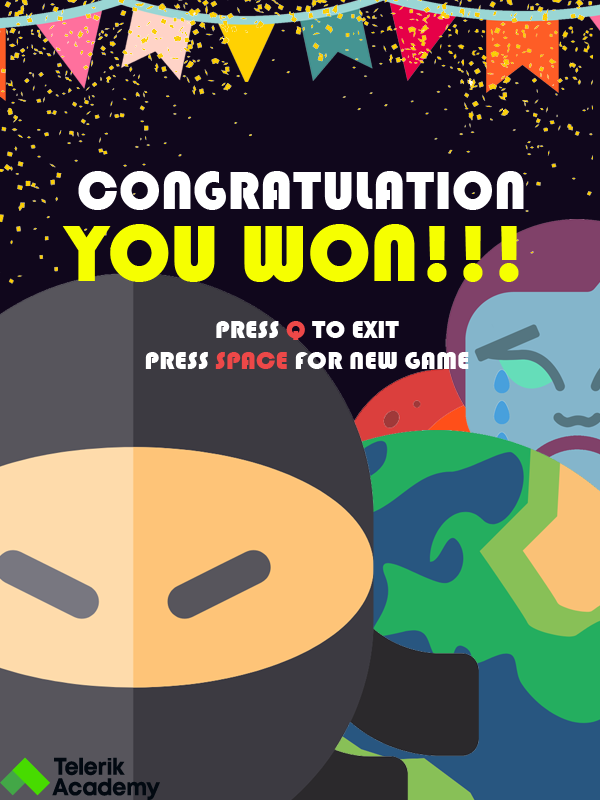
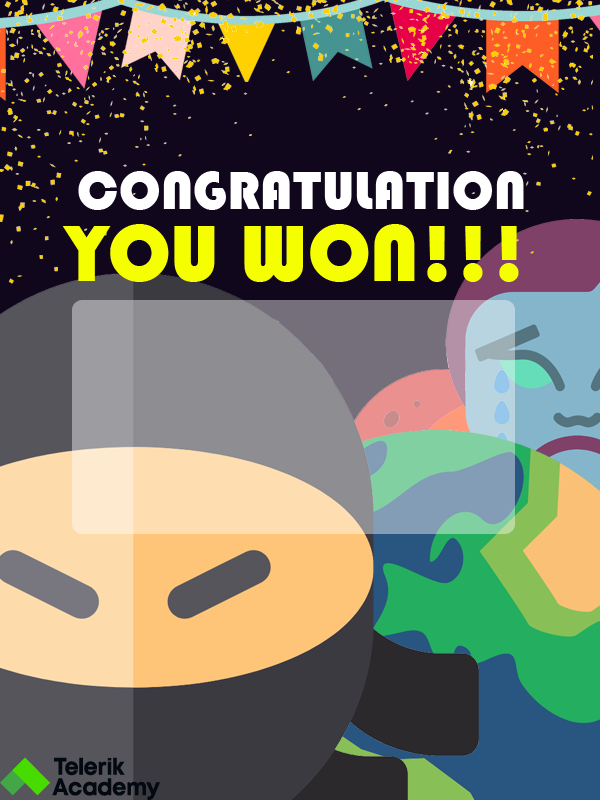
added win state menu

Changed region(s): [[0.12, 0.375, 0.87, 0.6875]]

diff --git a/src/telerik/game_states/WinState.java b/src/telerik/game_states/WinState.java
@@ -1,5 +1,8 @@
 package telerik.game_states;
 
+import telerik.Constants;
+import telerik.Player;
+import telerik.enumerators.GameStateButtons;
 import telerik.system.Position;
 import telerik.enumerators.GameStateType;
 import telerik.system.Background;
@@ -10,12 +13,28 @@ import java.awt.event.KeyEvent;
 public class WinState extends GameState {
     private Background background;
 
+    private int currentChoice = 0;
+
+    private Color fontColor;
+    private Font buttonsFont;
+
+    private int fontSize;
     private int currentStateIndex;
+
+    private GameStateButtons[] buttons = {
+            GameStateButtons.NEW_GAME,
+            GameStateButtons.EXIT
+    };
 
     public WinState(GameStateManager gsm) {
         this.gsm = gsm;
 
+        fontSize = 50;
+
         background = new Background("../res/win_state.png", new Position(0, 0));
+
+        fontColor = Color.WHITE;
+        buttonsFont = new Font("Arial", Font.BOLD, fontSize);
     }
 
     @Override
@@ -25,6 +44,38 @@ public class WinState extends GameState {
     @Override
     public void render(Graphics2D g) {
         background.render(g);
+
+        g.setColor(fontColor);
+        g.setFont(buttonsFont);
+
+        for (int i = 0; i < buttons.length; i++) {
+
+            if (i == currentChoice) {
+                g.setColor(new Color(255, 253, 237));
+            } else {
+                g.setColor(new Color(193, 9, 21));
+            }
+
+            switch (buttons[i]) {
+                case NEW_GAME:
+                    g.drawString("New Game", Constants.WIDTH / 2 - 150, (Constants.HEIGHT / 2) + i * fontSize );
+                    break;
+                case EXIT:
+                    g.drawString("Exit", Constants.WIDTH / 2 - 150, (Constants.HEIGHT / 2) + i * fontSize);
+                    break;
+            }
+        }
+    }
+
+    private void select() {
+        if (buttons[currentChoice] == GameStateButtons.NEW_GAME) {
+            gsm.resetGame();
+            currentStateIndex = GameStateType.PLAYSTATE.ordinal();
+            gsm.setState(currentStateIndex);
+        } else if (buttons[currentChoice] == GameStateButtons.EXIT) {
+
+            System.exit(0);
+        }
     }
 
     @Override
@@ -34,14 +85,35 @@ public class WinState extends GameState {
 
     @Override
     public void keyReleased(int k) {
-        if (k == KeyEvent.VK_Q) {
+
+        if (k == KeyEvent.VK_ESCAPE) {
             System.exit(0);
         }
 
-        if (k == KeyEvent.VK_ENTER) {
+        if (k == KeyEvent.VK_N) {
             currentStateIndex = GameStateType.PLAYSTATE.ordinal();
             gsm.setState(currentStateIndex);
             gsm.resetGame();
+        }
+
+        if (k == KeyEvent.VK_ENTER) {
+            select();
+        }
+
+        if (k == KeyEvent.VK_UP) {
+            currentChoice--;
+
+            if (currentChoice == -1) {
+                currentChoice = buttons.length - 1;
+            }
+        }
+
+        if (k == KeyEvent.VK_DOWN) {
+            currentChoice++;
+
+            if (currentChoice == buttons.length) {
+                currentChoice = 0;
+            }
         }
     }
 }

diff --git a/src/telerik/Constants.java b/src/telerik/Constants.java
@@ -26,9 +26,9 @@ public class Constants {
 
 
     public static final long FPS = 60;
-    public static final double UPDATE_TIME = 1000000000 / FPS;
-
-    public static final long TARGET_TIME = 1000 / FPS;
+//    public static final double UPDATE_TIME = 1000000000 / FPS;
+//
+//    public static final long TARGET_TIME = 1000 / FPS;
 
     public static final int FRIENDLY_BULLET_1_POWER = 20;
     public static final int FRIENDLY_BULLET_2_POWER = 40;
@@ -41,17 +41,17 @@ public class Constants {
     public static final int ENEMY_BULLET_2_POWER = 20;
     public static final int COMET_POWER = 50;
 
-    public static final int ALIEN_KILL_POINTS = 500;
-    public static final int SHIP_1_KILL_POINTS = 1000;
-    public static final int SHIP_2_KILL_POINTS = 2000;
-    public static final int BULLET_1_KILL_POINTS = 50;
-    public static final int BULLET_2_KILL_POINTS = 100;
-    public static final int COMET_KILL_POINTS = 100;
+//    public static final int ALIEN_KILL_POINTS = 500;
+//    public static final int SHIP_1_KILL_POINTS = 1000;
+//    public static final int SHIP_2_KILL_POINTS = 2000;
+//    public static final int BULLET_1_KILL_POINTS = 50;
+//    public static final int BULLET_2_KILL_POINTS = 100;
+//    public static final int COMET_KILL_POINTS = 100;
 
 
     public static final int CONTROL_PANEL_HEIGHT = 120;
-    public static final int BUTTONS_FONT_SIZE = 50;
-    public static final int CONTROL_PANEL_FONT_ZISE = 15;
+//    public static final int BUTTONS_FONT_SIZE = 50;
+//    public static final int CONTROL_PANEL_FONT_ZISE = 15;
 
     public static final int ALIEN_SPAWN_DELAY = 180;
     public static final int FOOD_SPAWN_DELAY = 300;
